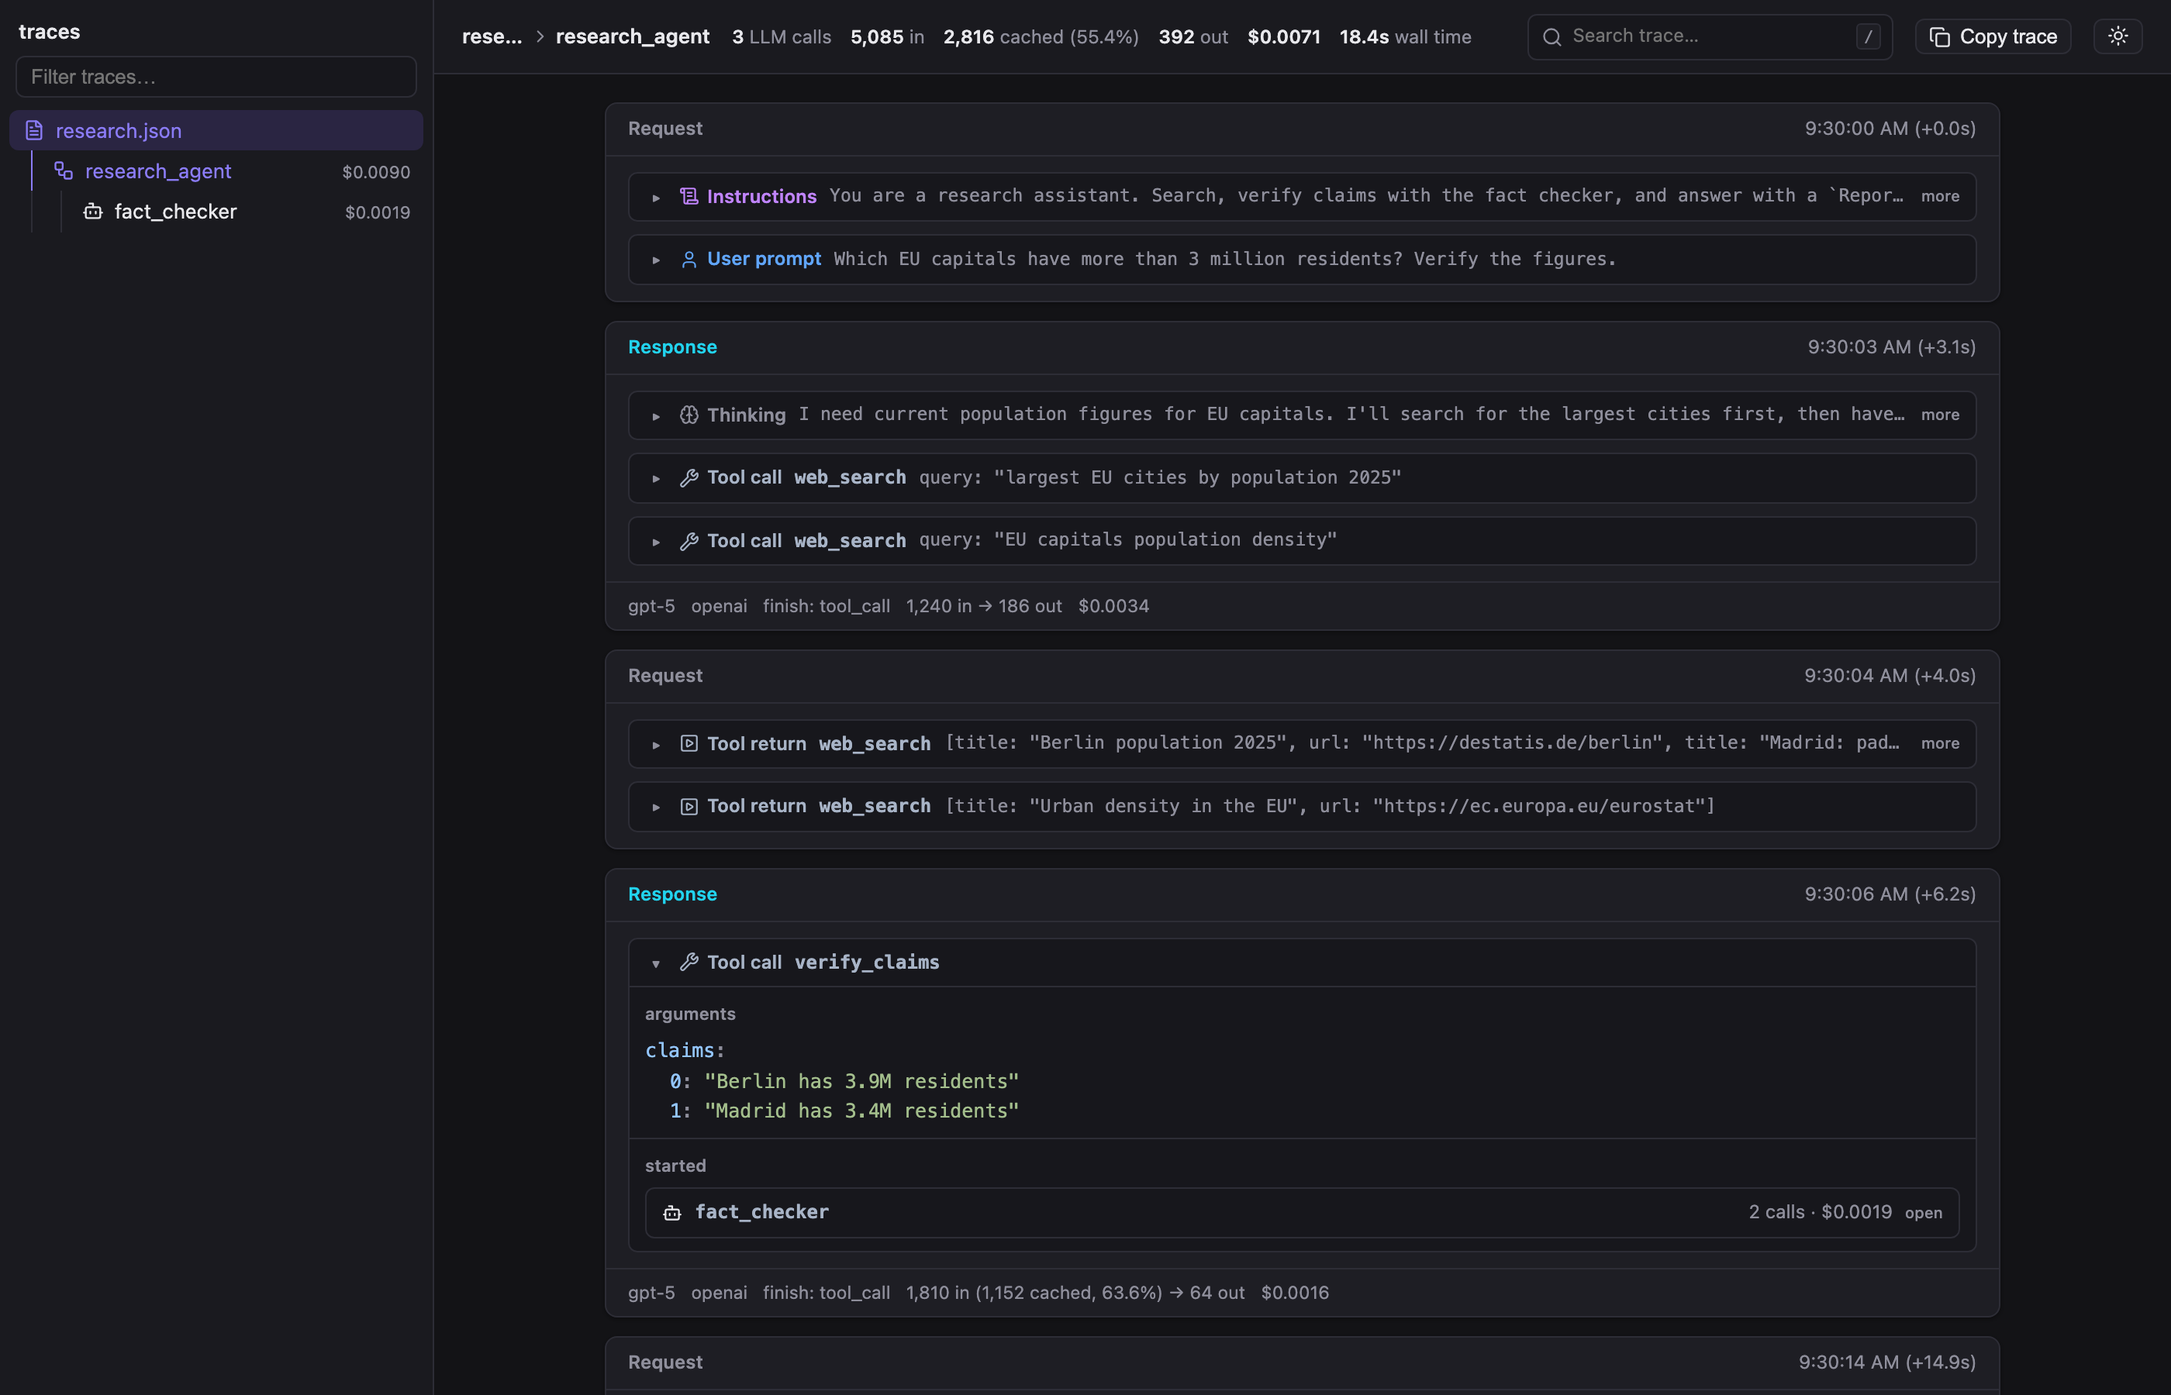
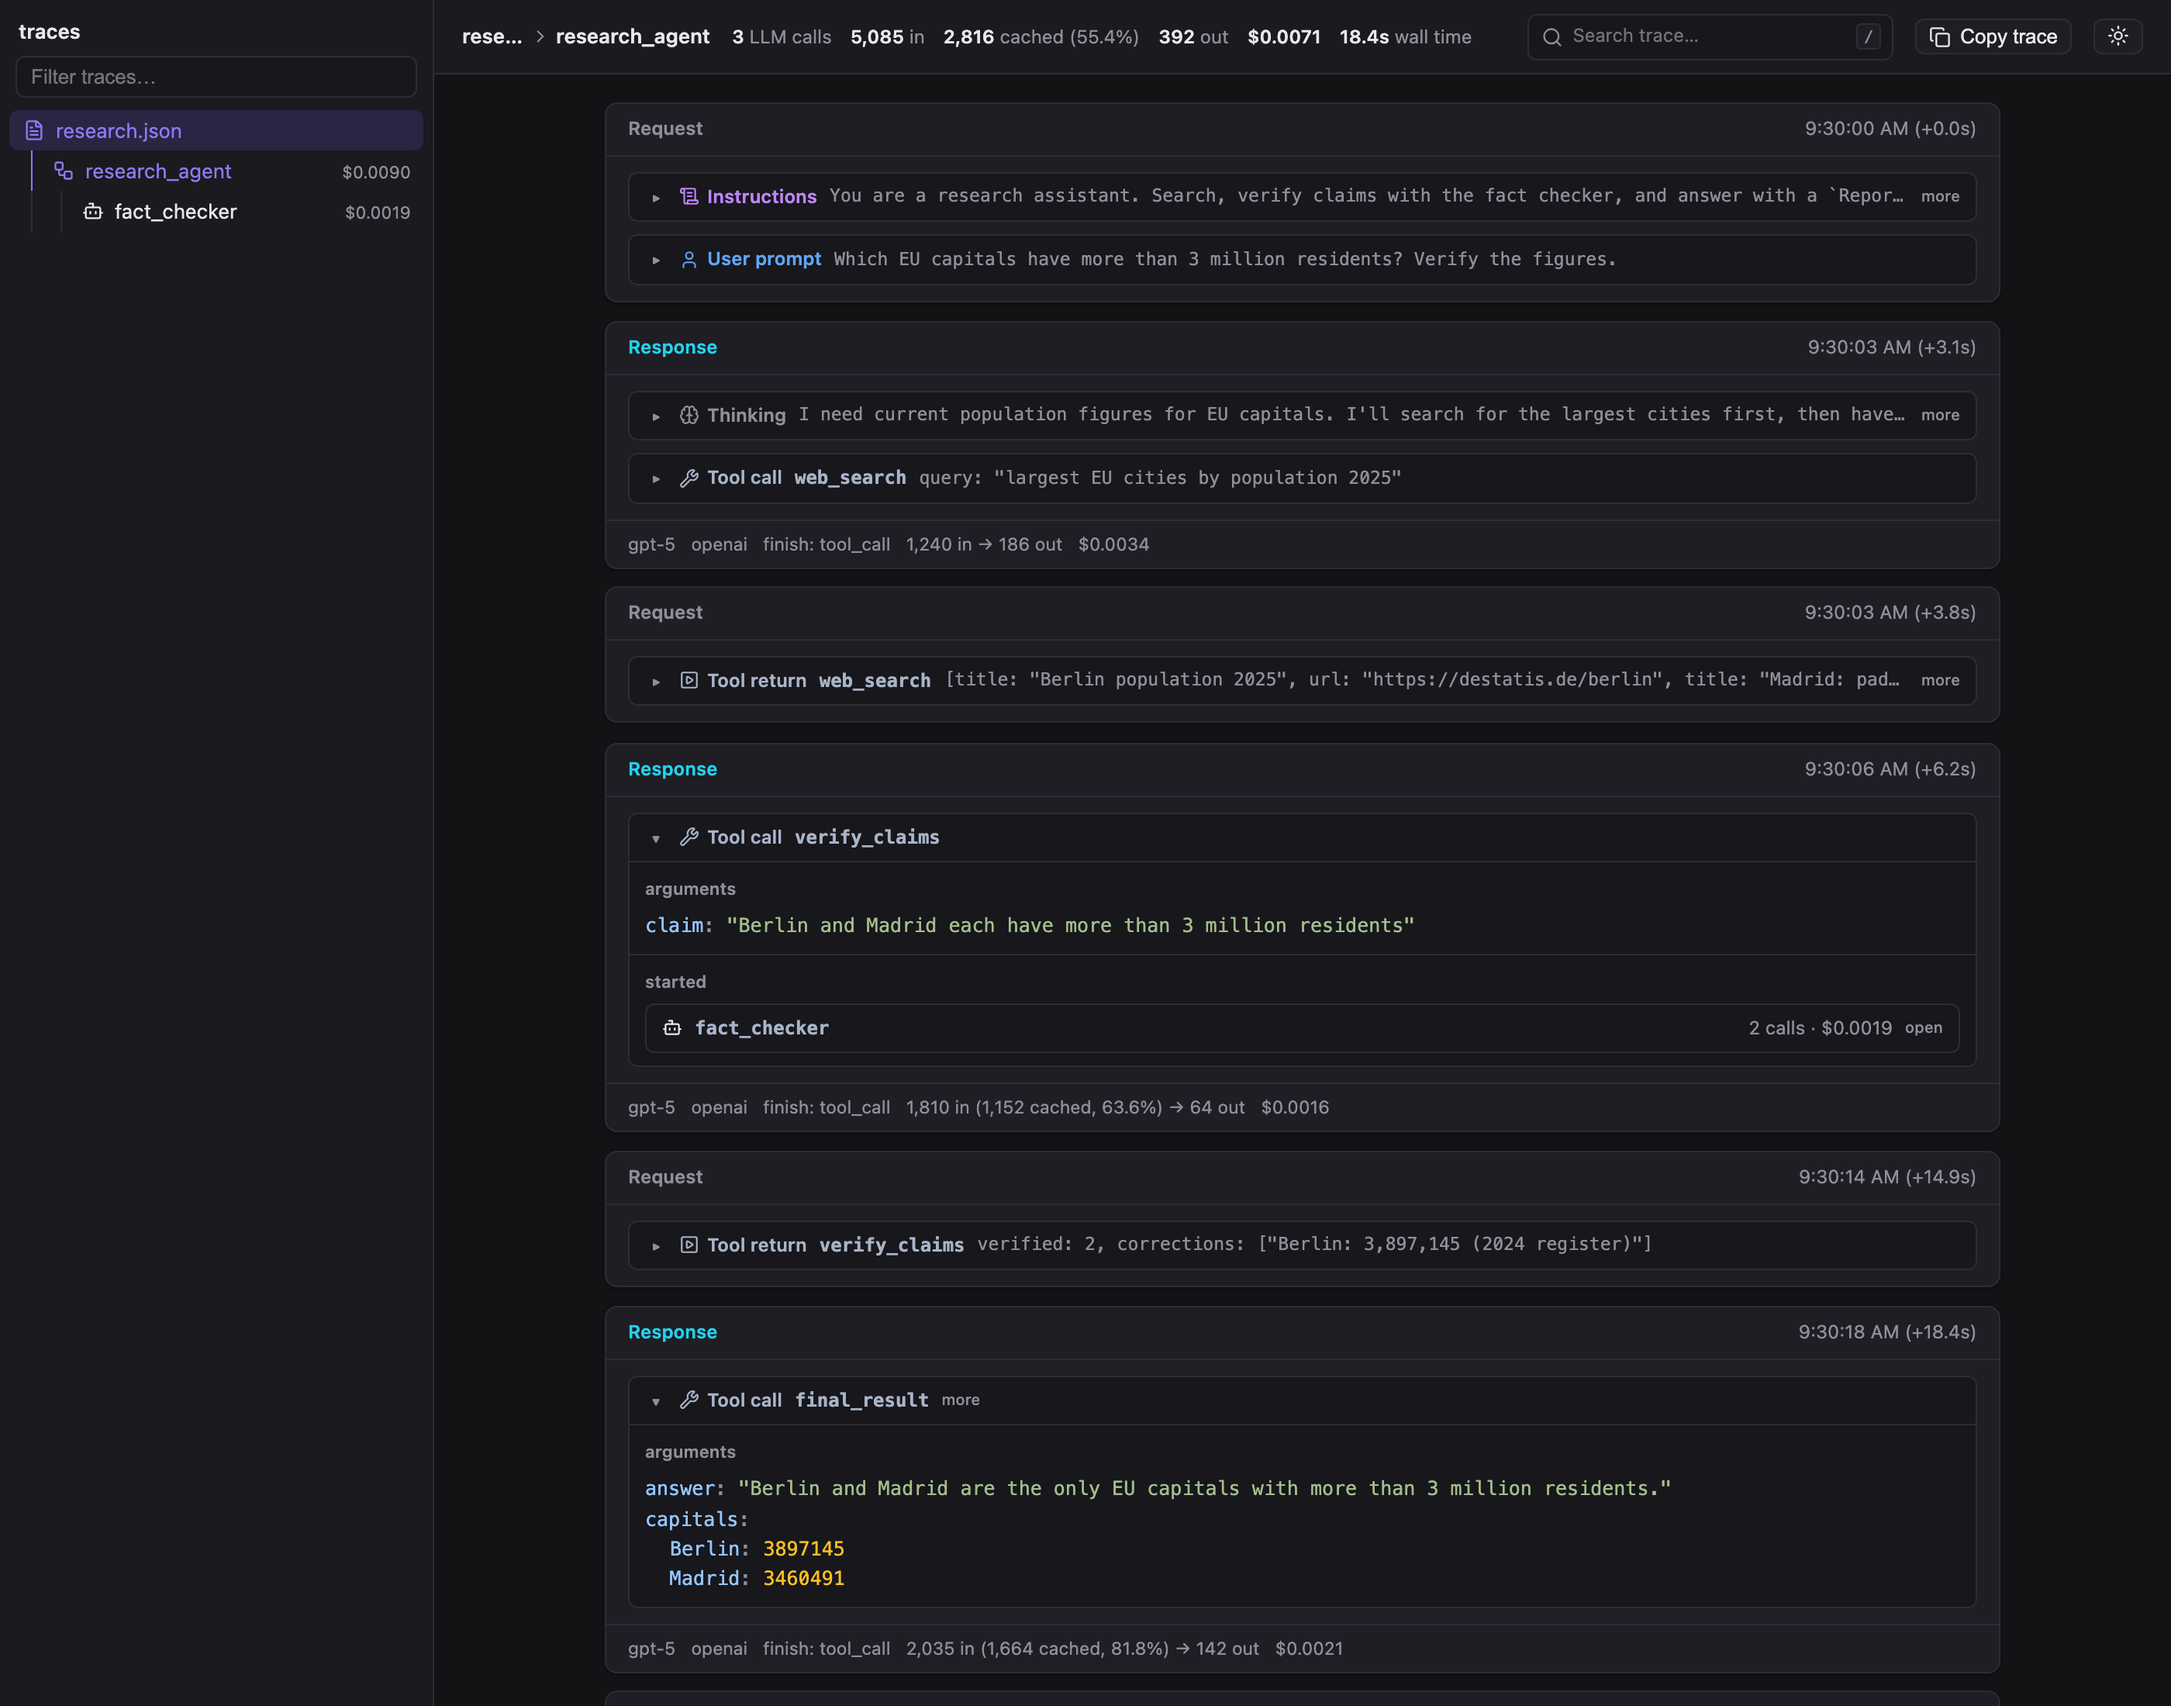
docs(readme): show the structured output in the screenshots

diff --git a/scripts/screenshots.py b/scripts/screenshots.py
@@ -33,7 +33,7 @@ from pydantic_ai_trace import Run, Trajectory
 
 DOCS = Path(__file__).resolve().parent.parent / "docs"
 START = datetime(2026, 1, 15, 9, 30, tzinfo=UTC)
-VIEWPORT = {"width": 1400, "height": 900}
+VIEWPORT = {"width": 1400, "height": 1100}
 
 type Theme = Literal["light", "dark"]
 
@@ -87,21 +87,14 @@ def demo_trajectory() -> Trajectory:
     search_population = ToolCallPart(
         "web_search", {"query": "largest EU cities by population 2025"}, "call_search_1"
     )
-    search_density = ToolCallPart(
-        "web_search", {"query": "EU capitals population density"}, "call_search_2"
-    )
     verify = ToolCallPart(
         "verify_claims",
-        {"claims": ["Berlin has 3.9M residents", "Madrid has 3.4M residents"]},
+        {"claim": "Berlin and Madrid each have more than 3 million residents"},
         "call_verify",
     )
     report_output = {
         "answer": "Berlin and Madrid are the only EU capitals with more than 3 million residents.",
-        "cities": [
-            {"name": "Berlin", "population": 3_897_145, "verified": True},
-            {"name": "Madrid", "population": 3_460_491, "verified": True},
-        ],
-        "sources": ["destatis.de", "ine.es"],
+        "capitals": {"Berlin": 3_897_145, "Madrid": 3_460_491},
     }
     report = ToolCallPart("final_result", report_output, "call_final")
     research_messages: list[ModelMessage] = [
@@ -121,12 +114,11 @@ def demo_trajectory() -> Trajectory:
                 "largest cities first, then have the fact checker confirm the candidates."
             ),
             search_population,
-            search_density,
             model=gpt,
             tokens=(1_240, 0, 186),
         ),
         request(
-            4.0,
+            3.8,
             tool_return(
                 3.8,
                 search_population,
@@ -135,11 +127,6 @@ def demo_trajectory() -> Trajectory:
                     {"title": "Madrid: padrón municipal", "url": "https://ine.es/madrid"},
                     {"title": "Rome demographics", "url": "https://istat.it/roma"},
                 ],
-            ),
-            tool_return(
-                4.0,
-                search_density,
-                [{"title": "Urban density in the EU", "url": "https://ec.europa.eu/eurostat"}],
             ),
         ),
         response(6.2, verify, model=gpt, tokens=(1_810, 1_152, 64)),
@@ -212,8 +199,9 @@ def capture(page: Page, url: str, out: Path) -> None:
     # Select the run explicitly instead of relying on the default selection.
     page.locator(".run-node", has_text="research_agent").click()
     page.locator(".child-run").wait_for(state="attached")
-    # Expand the tool call that started the subagent.
-    page.locator("details.tool-group:has(.tool-name:text-is('verify_claims')) > summary").click()
+    # Expand the tool call that started the subagent, and the structured output.
+    for tool in ("verify_claims", "final_result"):
+        page.locator(f"details.tool-group:has(.tool-name:text-is('{tool}')) > summary").click()
     page.locator(".trace-body").evaluate("body => { body.scrollTop = 0; }")
     # No focus ring, caret, or hover state; the pointer rests on empty sidebar space.
     page.evaluate("document.activeElement?.blur()")
